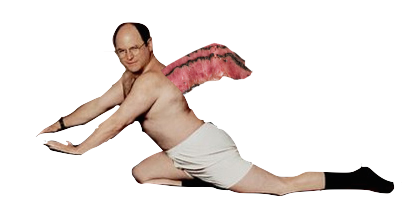
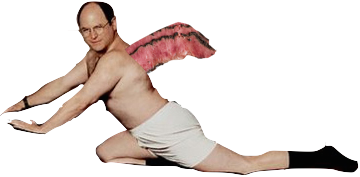
you can now win the game

diff --git a/script.js b/script.js
@@ -59,7 +59,7 @@ function makeStars(){
 makeStars();
 
 //radial gradient
-var grd = c.createRadialGradient(500,300,70,500,300,100);
+var grd = c.createRadialGradient(500,300,70,500,300,160);
 grd.addColorStop(0,"rgba(255,215,0, 1)");
 grd.addColorStop(1,"rgba(255,215,0,0.4)");
 
@@ -68,7 +68,7 @@ grd.addColorStop(1,"rgba(255,215,0,0.4)");
 var sun = {
 	x: 500,
 	y: 300,
-	r: 100,
+	r: 160,
 	makeSun: function(){
 	c.beginPath();
 	c.arc(this.x, this.y, this.r, Math.PI*2, false);
@@ -79,8 +79,8 @@ var sun = {
 
 //make televistion
 var tv = {
-	x: 200,
-	y: 200,
+	x: 100,
+	y: 100,
 	w: 120,
 	h: 100,
 	imageObj: new Image(),
@@ -93,8 +93,8 @@ var tv = {
 var george = {
 	x: canvas.width - 300,
 	y: canvas.height - 200,
-	w: 400,
-	h: 200,
+	w: 180,
+	h: 87,
 	speed: 2,
 	left: false,
 	right: false,
@@ -198,6 +198,42 @@ function tooClose(){
 	}
 };
 
+function youWin(){
+	if(george.y > tv.y 
+	&& george.y < (tv.y + tv.h)
+	&& george.x > tv.x
+	&& george.x < (tv.x + tv.w)){
+		alert('You did it! You can have your cake and eat it too');
+		window.location.reload();	
+	}else if((george.y + george.h) > tv.y
+	&& (george.y + george.h) < (tv.y + tv.h)
+	&& (george.x + george.w) > tv.x
+	&& (george.x + george.w) < (tv.x + tv.w)
+	 ){
+		alert('You did it! You can have your cake and eat it too');
+		window.location.reload();
+	}
+	else if((george.y + george.h) > tv.y
+	&& (george.y + george.h) < (tv.y + tv.h)
+	&& george.x > tv.x
+	&& george.x < (tv.x + tv.w)
+	){
+		alert('You did it! You can have your cake and eat it too');
+		window.location.reload();
+	}
+	else if(george.y > tv.y 
+	&& george.y < (tv.y + tv.h)
+	&& (george.x + george.w) > tv.x
+	&& (george.x + george.w) < (tv.x + tv.w)
+	){
+		alert('You did it! You can have your cake and eat it too');
+		
+		window.location.reload();
+
+	}
+};
+
+
 function update(){
 	c.fillStyle = "rgb(0, 0, 51)";
 	c.fillRect(0, 0, canvas.width, canvas.height);
@@ -207,6 +243,7 @@ function update(){
 	george.paint();
 	keys.checkKeys();
 	tooClose();
+	youWin();
 	requestAnimationFrame(update);
 	
 };

diff --git a/index.html b/index.html
@@ -13,7 +13,7 @@
 	<div class="directions">
 		<div class="innerWrapper">
 			<h1>Too Close to the Sun</h1>
-			<h2>Help George achieve all of his wieldest dreams... but don't overdo it</h2>
+			<h2>Help George achieve all of his wildest dreams... but don't overdo it</h2>
 			<h3>How to Play</h3>
 			<p>Use the arrow keys to move George in outer space. Help George reach the television, but make sure you avoid the sun.</p>
 			<div class="play">
